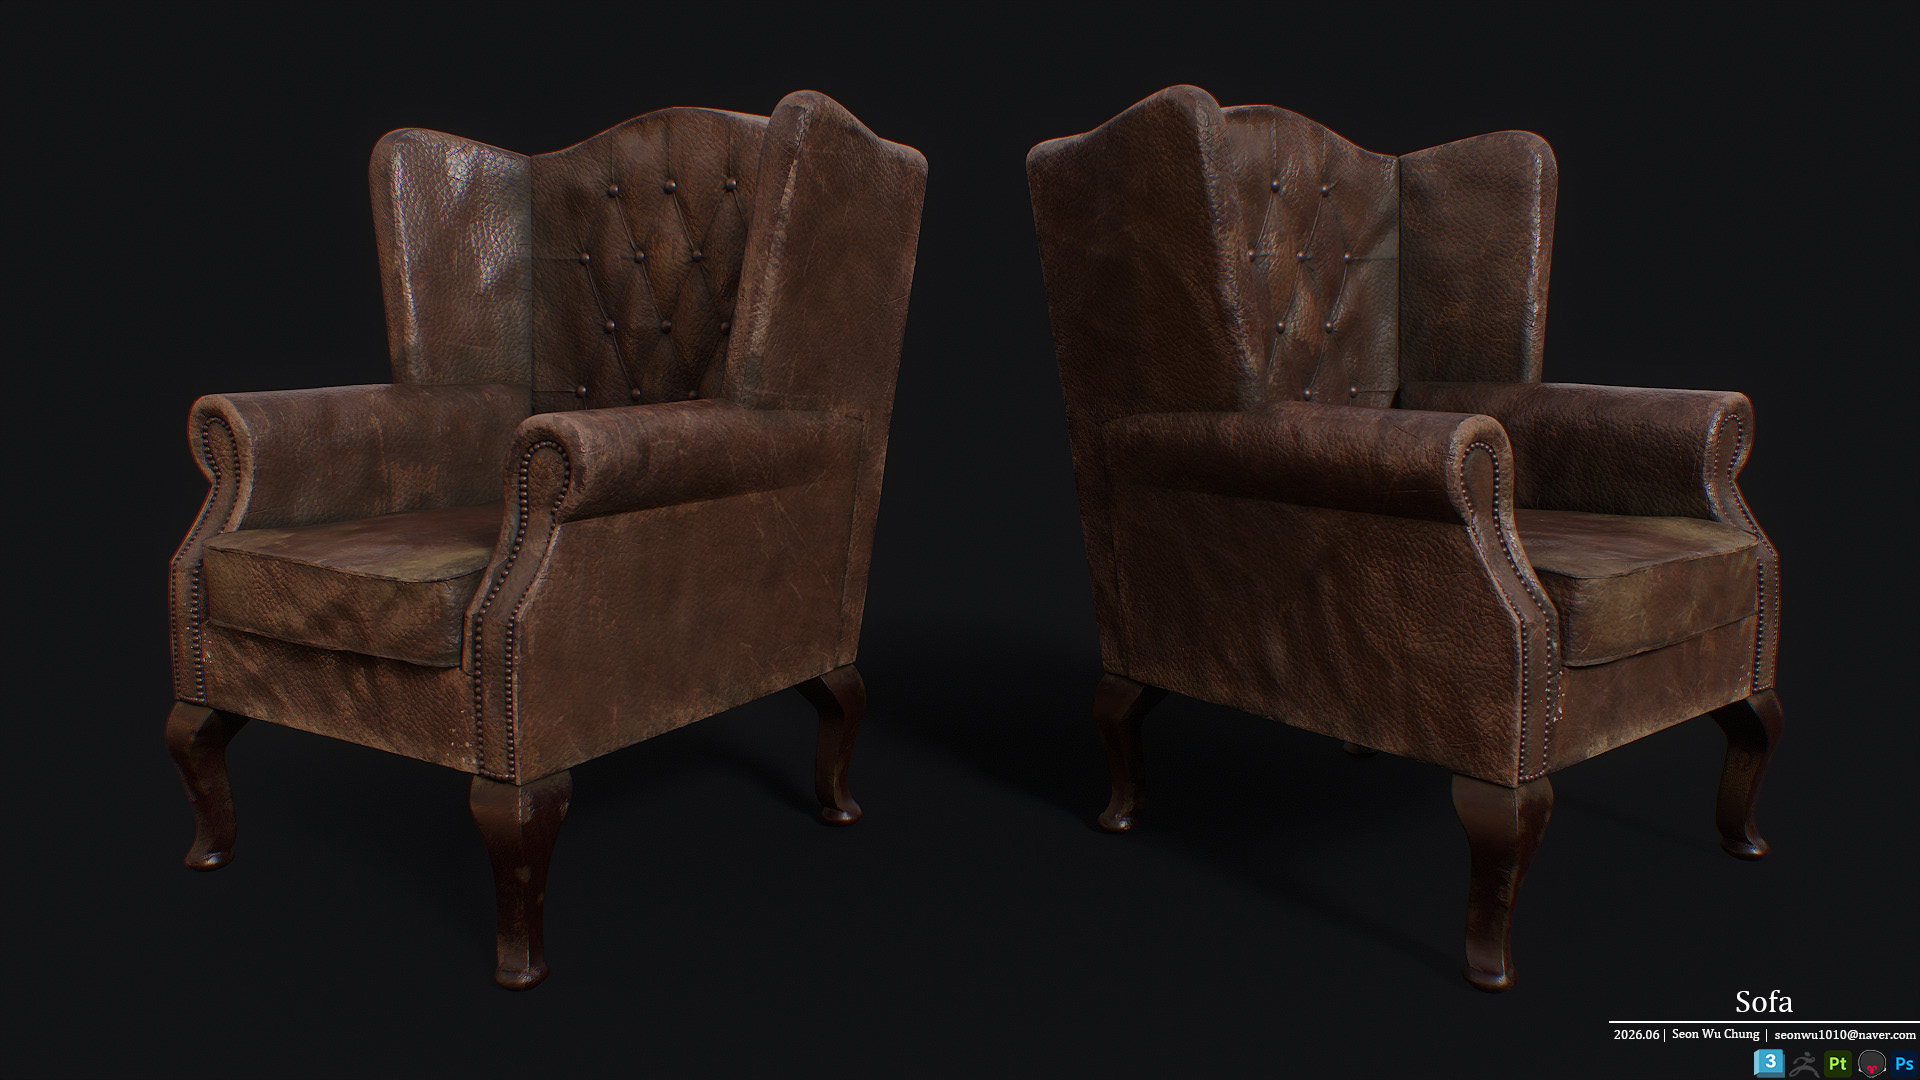
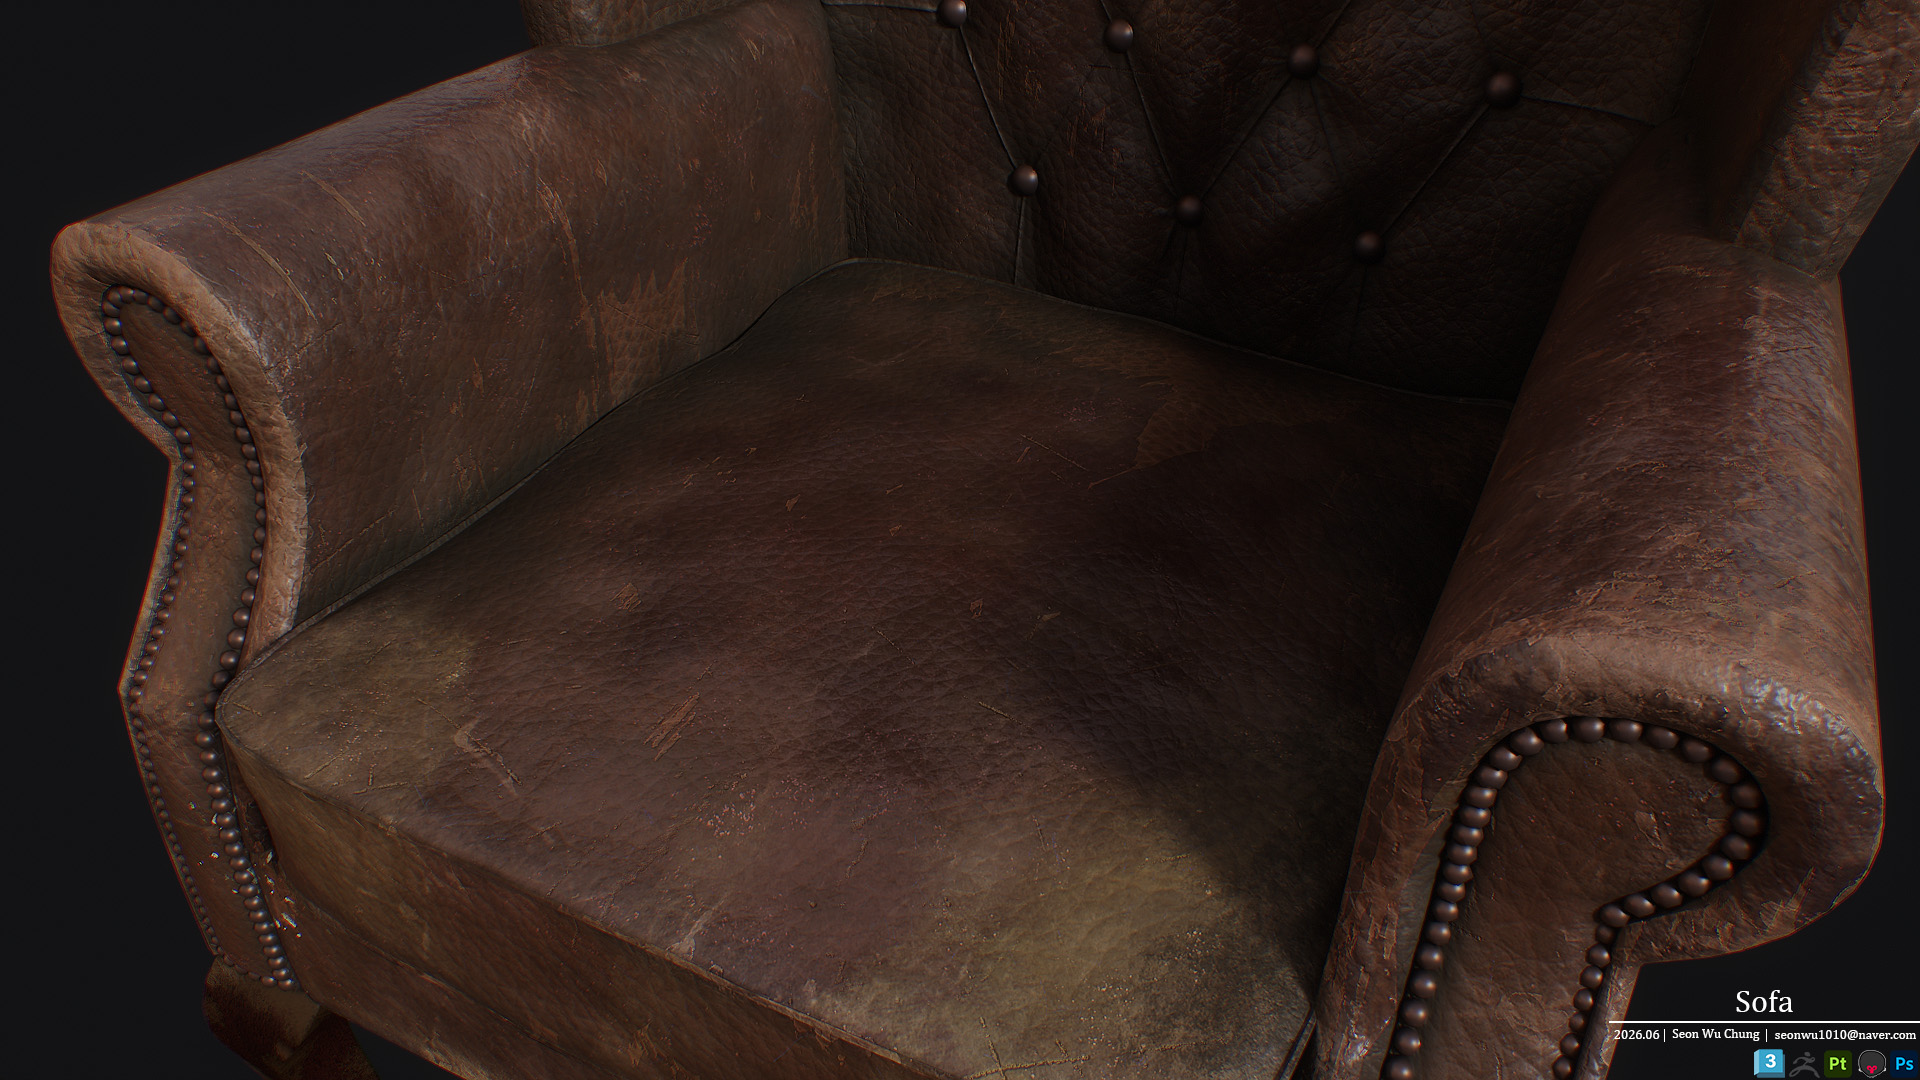
Update Sofa cover and three-image gallery order

diff --git a/app.js b/app.js
@@ -2,7 +2,7 @@ const projects = [
   {id:'scene2024', title:'2024 SCENE', category:'Personal', type:'Environment · Props', date:'2024', sortKey:202400, cover:'Personal/2024_Scene/202409_CRT&Nes/1.jpg', images:['Personal/2024_Scene/202409_CRT&Nes/1.jpg','Personal/2024_Scene/202409_CRT&Nes/2.jpg','Personal/2024_Scene/202409_CRT&Nes/3.jpg','Personal/2024_Scene/202409_CRT&Nes/4.jpg','Personal/2024_Scene/202409_CRT&Nes/5.jpg','Personal/2024_Scene/202409_CRT&Nes/6.jpg','Personal/2024_Scene/202409_CRT&Nes/7.jpg','Personal/2024_Scene/202407_Sci-fi/1.jpg','Personal/2024_Scene/202407_Sci-fi/2.jpg','Personal/2024_Scene/202407_Sci-fi/3.jpg','Personal/2024_Scene/202407_Sci-fi/4.jpg','Personal/2024_Scene/202407_Sci-fi/5.jpg']},
   {id:'knife', title:'UTILITY KNIFE', category:'Personal', type:'Props', date:'2026.03', sortKey:202603, cover:'Personal/202603_Knife/1.jpg', images:['Personal/202603_Knife/1.jpg','Personal/202603_Knife/2.jpg','Personal/202603_Knife/3.jpg','Personal/202603_Knife/4.jpg','Personal/202603_Knife/5.jpg','Personal/202603_Knife/6.jpg']},
   {id:'chair', title:'CHAIR', category:'Personal', type:'Props', date:'2026.04', sortKey:202604, cover:'Personal/202604_Chair/1.jpg', images:['Personal/202604_Chair/1.jpg','Personal/202604_Chair/2.jpg','Personal/202604_Chair/3.jpg','Personal/202604_Chair/4.jpg','Personal/202604_Chair/5.jpg']},
-  {id:'sofa', title:'SOFA', category:'Personal', type:'Props', date:'2026.06', sortKey:202606, cover:'Personal/202606_Sofa/1.jpg', images:['Personal/202606_Sofa/1.jpg','Personal/202606_Sofa/2.jpg']},
+  {id:'sofa', title:'SOFA', category:'Personal', type:'Props', date:'2026.06', sortKey:202606, cover:'Personal/202606_Sofa/1.jpg', images:['Personal/202606_Sofa/1.jpg','Personal/202606_Sofa/2.jpg','Personal/202606_Sofa/3.jpg']},
   {id:'axegun', title:'AXE GUN', category:'Personal', type:'Props', date:'2026.07', sortKey:202607, cover:'Personal/202607_AxeGun/1.jpg', images:['Personal/202607_AxeGun/1.jpg','Personal/202607_AxeGun/2.jpg','Personal/202607_AxeGun/3.jpg','Personal/202607_AxeGun/4.jpg','Personal/202607_AxeGun/5.jpg']},
   {id:'fantasyaxe', title:'FANTASY AXE', category:'Personal', type:'Props', date:'2026.08', sortKey:202608, cover:'Personal/202608_FantasyAxe/1.jpg', images:['Personal/202608_FantasyAxe/1.jpg','Personal/202608_FantasyAxe/2.jpg','Personal/202608_FantasyAxe/3.jpg']},
   {id:'carriage', title:'CARRIAGE', category:'Personal', type:'Props', date:'2026.10', sortKey:202610, cover:'Personal/202610_Carriage/1.jpg', images:['Personal/202610_Carriage/1.jpg']},
@@ -42,6 +42,9 @@ const projectDescriptions = {
 const byId = Object.fromEntries([...projects, ...substanceProjects, ...universityProjects].map(project => [project.id, project]));
 // Refresh renamed/replaced images even when the browser cached the same filename.
 const imageRevisions = {
+  "Personal/202606_Sofa/1.jpg": "8d1945b424ac",
+  "Personal/202606_Sofa/2.jpg": "8ce1ff4d3497",
+  "Personal/202606_Sofa/3.jpg": "ba8bff299f2f",
   "Personal/202603_Knife/1.jpg": "2ccfbe4f04fa",
   "Personal/202603_Knife/3.jpg": "932bc6cd1dad",
   "Personal/202604_Chair/1.jpg": "812bd67d96cc",

diff --git a/index.html b/index.html
@@ -82,6 +82,6 @@
       </aside>
     </dialog>
     <div id="toast" class="toast" role="status" aria-live="polite"></div>
-    <script src="app.js?v=substance-description-v5"></script>
+    <script src="app.js?v=sofa-images-v1"></script>
   </body>
 </html>
